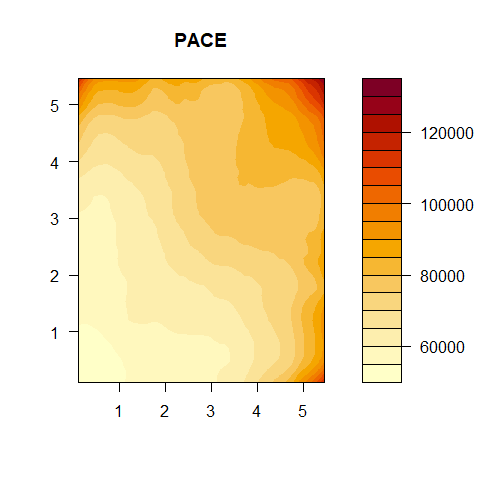
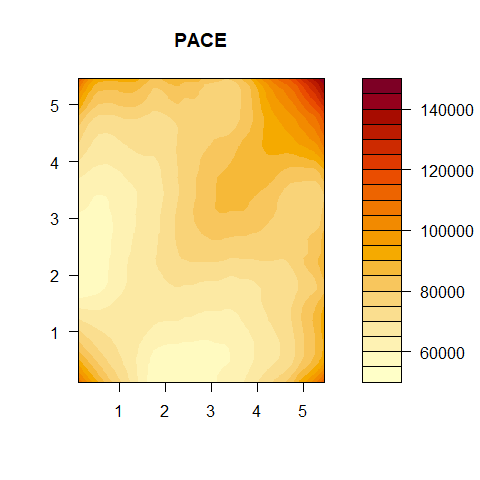
remove meas error for PACE?

diff --git a/README.md b/README.md
@@ -1,7 +1,7 @@
 Robust FPCA for sparsely observed curves
 ================
 Matias Salibian-Barrera & Graciela Boente
-2020-06-19
+2020-06-20
 
 This repository contains the `sparseFPCA` package that implements the
 robust FPCA method introduced in [Boente and
@@ -163,7 +163,7 @@ ours.ls <- lsfpca(X=X, ncpus=ncpus, hs.mu=hs.mu, hs.cov=hs.cov, rho.param=rho.pa
 ours.r <- efpca(X=X, ncpus=ncpus, hs.mu=hs.mu, hs.cov=hs.cov, rho.param=rho.param,
                 alpha=0.2, k = k, s = k, trace=FALSE, seed=seed, k.cv=k.cv, ncov=ncov,
                 max.kappa=max.kappa)
-myop <- list(error=TRUE, methodXi='CE', dataType='Sparse', 
+myop <- list(error=FALSE, methodXi='CE', dataType='Sparse', 
              userBwCov = 1.5, userBwMu= .3, kernel='epan', verbose=FALSE, nRegGrid=50)
 pace <- FPCA(Ly=X$x, Lt=X$pp, optns=myop)
 ```
@@ -228,7 +228,7 @@ rbind(ours = cumsum(dd)[1:3] / sum(dd),
     ##           [,1]      [,2]      [,3]
     ## ours 0.9463211 0.9979511 0.9994576
     ## ls   0.9769791 0.9979702 0.9993578
-    ## pace 0.9173902 0.9592724 0.9883714
+    ## pace 0.8735757 0.9438932 0.9688466
 
 In what follows we will use 2 principal components. The corresponding
 estimated scores are:
@@ -324,7 +324,7 @@ Now re-fit on the “clean” data:
 ours.ls.clean <- lsfpca(X=X.clean, ncpus=ncpus, hs.mu=hs.mu, hs.cov=hs.cov,
                         rho.param=rho.param, k = k, s = k, trace=FALSE, 
                         seed=seed, k.cv=k.cv, ncov=ncov, max.kappa=max.kappa)
-myop.clean <- list(error=TRUE, methodXi='CE', dataType='Sparse', 
+myop.clean <- list(error=FALSE, methodXi='CE', dataType='Sparse', 
              userBwCov = 1.5, userBwMu= .3, 
              kernel='epan', verbose=FALSE, nRegGrid=50)
 pace.clean <- FPCA(Ly=X.clean$x, Lt=X.clean$pp, optns=myop.clean)
@@ -477,7 +477,7 @@ ours.r.tr <- efpca(X=X, ncpus=ncpus, hs.mu=hs.mu, hs.cov=hs.cov, rho.param=rho.p
                 k = k, s = k, trace=FALSE, seed=seed, k.cv=k.cv, ncov=ncov, max.kappa=max.kappa)
 ours.ls.tr <- lsfpca(X=X, ncpus=ncpus, hs.mu=hs.mu, hs.cov=hs.cov, rho.param=rho.param, 
                   k = k, s = k, trace=FALSE, seed=seed, k.cv=k.cv, ncov=ncov, max.kappa=max.kappa)
-myop <- list(error=TRUE, methodXi='CE', dataType='Sparse', 
+myop <- list(error=FALSE, methodXi='CE', dataType='Sparse', 
              userBwCov = 1.5, userBwMu= .3,
              kernel='epan', verbose=FALSE, nRegGrid=50)
 pace.tr <- FPCA(Ly=X$x, Lt=X$pp, optns=myop)
